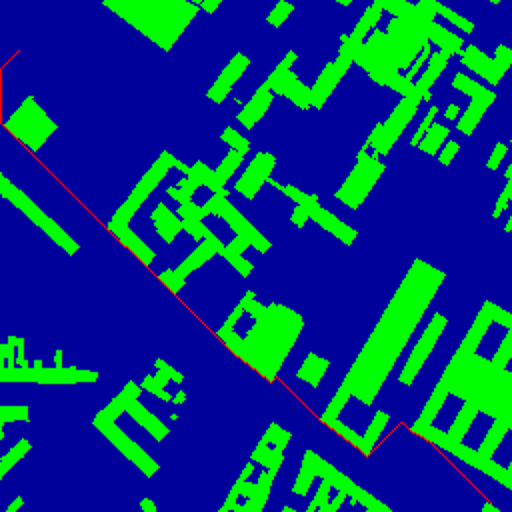
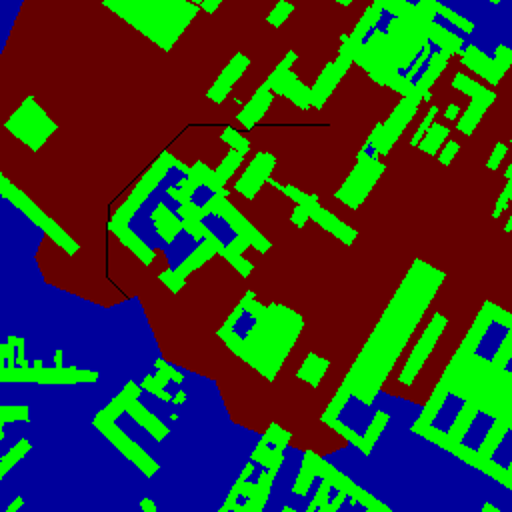
plot visited nodes and add cmd arguments

diff --git a/src/dijkstra.py b/src/dijkstra.py
@@ -4,25 +4,6 @@ class Dijkstra:
     def __init__(self):
         self.inf = 1e99
 
-    def create_graph(self, map):
-        n = len(map)
-        m = len(map[0])
-        graph = {}
-        moves = [(-1,-1), (-1,0), (-1,1), (0,-1), (0,1), (1,-1), (1,0), (1,1)]
-        for i in range(n):
-            for j in range(m):
-                    graph[(i,j)] = []
-        for i in range(n):
-            for j in range(m):
-                pos = (i, j)
-                if map[i][j] == ".":
-                    for move in moves:
-                        new_pos = (i + move[0], j + move[1])
-                        if 0 <= new_pos[0] < n and 0 <= new_pos[1] < m:
-                            if map[new_pos[0]][new_pos[1]] == ".":
-                                graph[pos].append(new_pos)
-        return graph
-
     def calculate_distance(self, graph, start, end):
         distance = {}
         previous = {}
@@ -35,24 +16,39 @@ class Dijkstra:
         heappush(heap, (0, start))
         while heap:
             d, x = heappop(heap)
+            if x == end:
+                break
             if ready[x]:
                 continue
             ready[x] = True
             for y in graph[x]:
-                old = distance[y]
-                new = distance[x] + 1
+                old = distance[y[0]]
+                new = distance[x] + y[1]
                 if new < old:
-                    distance[y] = new
-                    previous[y] = x
-                    heappush(heap, (new, y))
+                    distance[y[0]] = new
+                    previous[y[0]] = x
+                    heappush(heap, (new, y[0]))
         if distance[end] == self.inf:
-            return -1
+            return [], -1, {}
+        route = self.calculate_route(previous, start, end)
+        visited = self.calculate_visited(ready)
+        return route, distance[end], visited
+
+    def calculate_route(self, previous, start, end):
         route = [end]
         u = end
         while u != start:
             route.append(previous[u])
             u = previous[u]
-        return route, distance[end]
+        return route
+
+    def calculate_visited(self, ready):
+        visited = []
+        for key, value in ready.items():
+            if value == True:
+                visited.append(key)
+        return visited
+
 
 
 

diff --git a/src/map_image.py b/src/map_image.py
@@ -1,4 +1,5 @@
 from PIL import Image
+import math
 
 class MapImage:
 
@@ -28,9 +29,36 @@ class MapImage:
                 data.append(row)
         self.data = data
 
-    def add_route(self, route):
+    def create_graph(self):
+        straight_cost = 1
+        diagonal_cost = math.sqrt(2)
+        n = len(self.data)
+        m = len(self.data[0])
+        graph = {}
+        moves_straight = [(-1,0), (0,-1), (0,1), (1,0)]
+        moves_diagonal = [(-1,-1), (-1,1), (1,-1), (1,1)]
+        for i in range(n):
+            for j in range(m):
+                    graph[(i,j)] = []
+        for i in range(n):
+            for j in range(m):
+                pos = (i, j)
+                if self.data[i][j] == ".":
+                    for move in moves_straight:
+                        new_pos = (i + move[0], j + move[1])
+                        if 0 <= new_pos[0] < n and 0 <= new_pos[1] < m:
+                            if self.data[new_pos[0]][new_pos[1]] == ".":
+                                graph[pos].append(((new_pos), straight_cost))
+                    for move in moves_diagonal:
+                        new_pos = (i + move[0], j + move[1])
+                        if 0 <= new_pos[0] < n and 0 <= new_pos[1] < m:
+                            if self.data[new_pos[0]][new_pos[1]] == ".":
+                                graph[pos].append(((new_pos), diagonal_cost))
+        return graph
+
+    def add_route(self, route, color):
         for i in route:
-            self.im.putpixel((i[0], i[1]), (255, 0, 0))
+            self.im.putpixel((i[0], i[1]), color)
 
     def save(self, size, name):
         im = self.im.resize(size)

diff --git a/src/index.py b/src/index.py
@@ -1,20 +1,22 @@
 from map_image import MapImage
 from dijkstra import Dijkstra
+import sys
 
 def main():
+    map = sys.argv[1]
+    start = (int(sys.argv[2]), int(sys.argv[3]))
+    end = (int(sys.argv[4]), int(sys.argv[5]))
     image = MapImage(256, 256)
-    image_size = (512, 512)
-    image.import_map('data/Berlin_0_256.map')
-    image.save(image_size, "data/original")
-    data = image.data
+    output_size = (512, 512)
+    image.import_map(map)
+    image.save(output_size, "data/original")
+    graph = image.create_graph()
     dijkstra = Dijkstra()
-    graph = dijkstra.create_graph(data)
-    start = (9, 25)
-    end = (245, 251)
-    route, shortest_distance = dijkstra.calculate_distance(graph, start, end)
+    route, shortest_distance, visited = dijkstra.calculate_distance(graph, start, end)
     print("shortest distance: ", shortest_distance)
-    image.add_route(route)
-    image.save(image_size, "data/route")
+    image.add_route(visited, (100,0,0))
+    image.add_route(route, (0,0,0))
+    image.save(output_size, "data/route")
 
 if __name__ == "__main__":
     main()

diff --git a/tasks.py b/tasks.py
@@ -2,8 +2,8 @@ from invoke import task
 
 
 @task
-def start(ctx):
-    ctx.run("python3 src/index.py")
+def start(ctx, input_file, start_x, start_y, end_x, end_y):
+    ctx.run(f"python3 src/index.py {input_file} {start_x} {start_y} {end_x} {end_y}")
 
 
 @task
